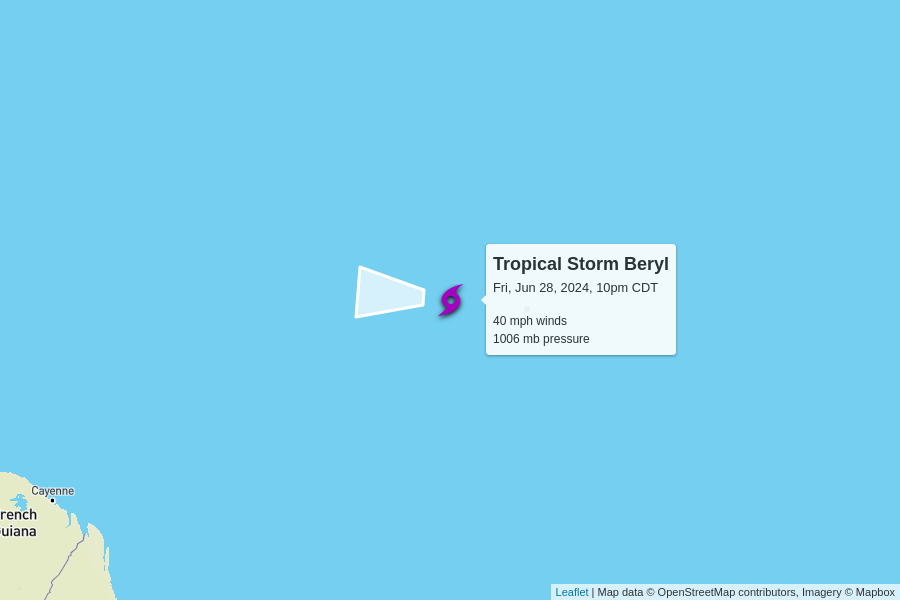
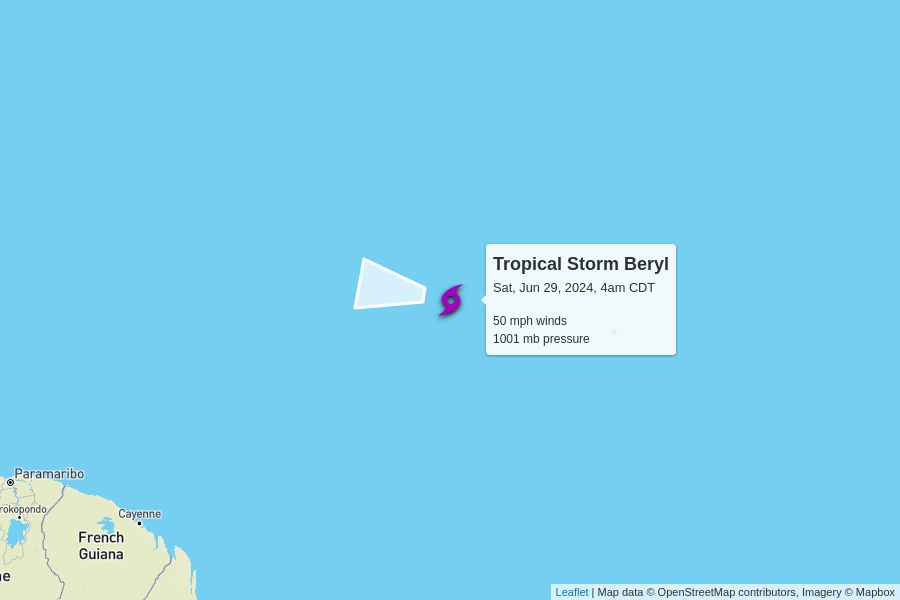
automatic update

Changed region(s): [[0.0, 0.78, 0.2178, 1.0], [0.56, 0.45, 0.7156, 0.51], [0.3733, 0.42, 0.4667, 0.54]]

diff --git a/docs/index.html b/docs/index.html
@@ -102,7 +102,7 @@
         <td colspan="6" class="storm category-0" >
           <h2>
             Tropical Storm Beryl
-            <p class="updated">last updated <span data-time>2024-06-29T03:00:00.000Z</span></p>
+            <p class="updated">last updated <span data-time>2024-06-29T09:00:00.000Z</span></p>
           </h2>
         </td>
       </tr>
@@ -117,12 +117,12 @@
       </tr>
       <tr>
         <td class="spacer"></td>
-        <td>40 mph<br>+5 mph since last update</td>
-        <td>1006 mb<br>-1 mb since last update</td>
+        <td>50 mph<br>+10 mph since last update</td>
+        <td>1001 mb<br>-5 mb since last update</td>
         <td>
-          18 mph to the west
+          21 mph to the west
           <br/>
-          <span style="display: inline-block; font-size: 1.5em; transform: rotate(275deg);">↑</span>
+          <span style="display: inline-block; font-size: 1.5em; transform: rotate(280deg);">↑</span>
         </td>
         <td><a href="https://raw.githubusercontent.com/mgwalker/atlantic-hurricanes/main/data/csv/AL022024.csv">AL022024.csv</a></td>
         <td><a href="https://www.nhc.noaa.gov/archive/2024/BERYL.shtml?">NHC advisories</a></td>
